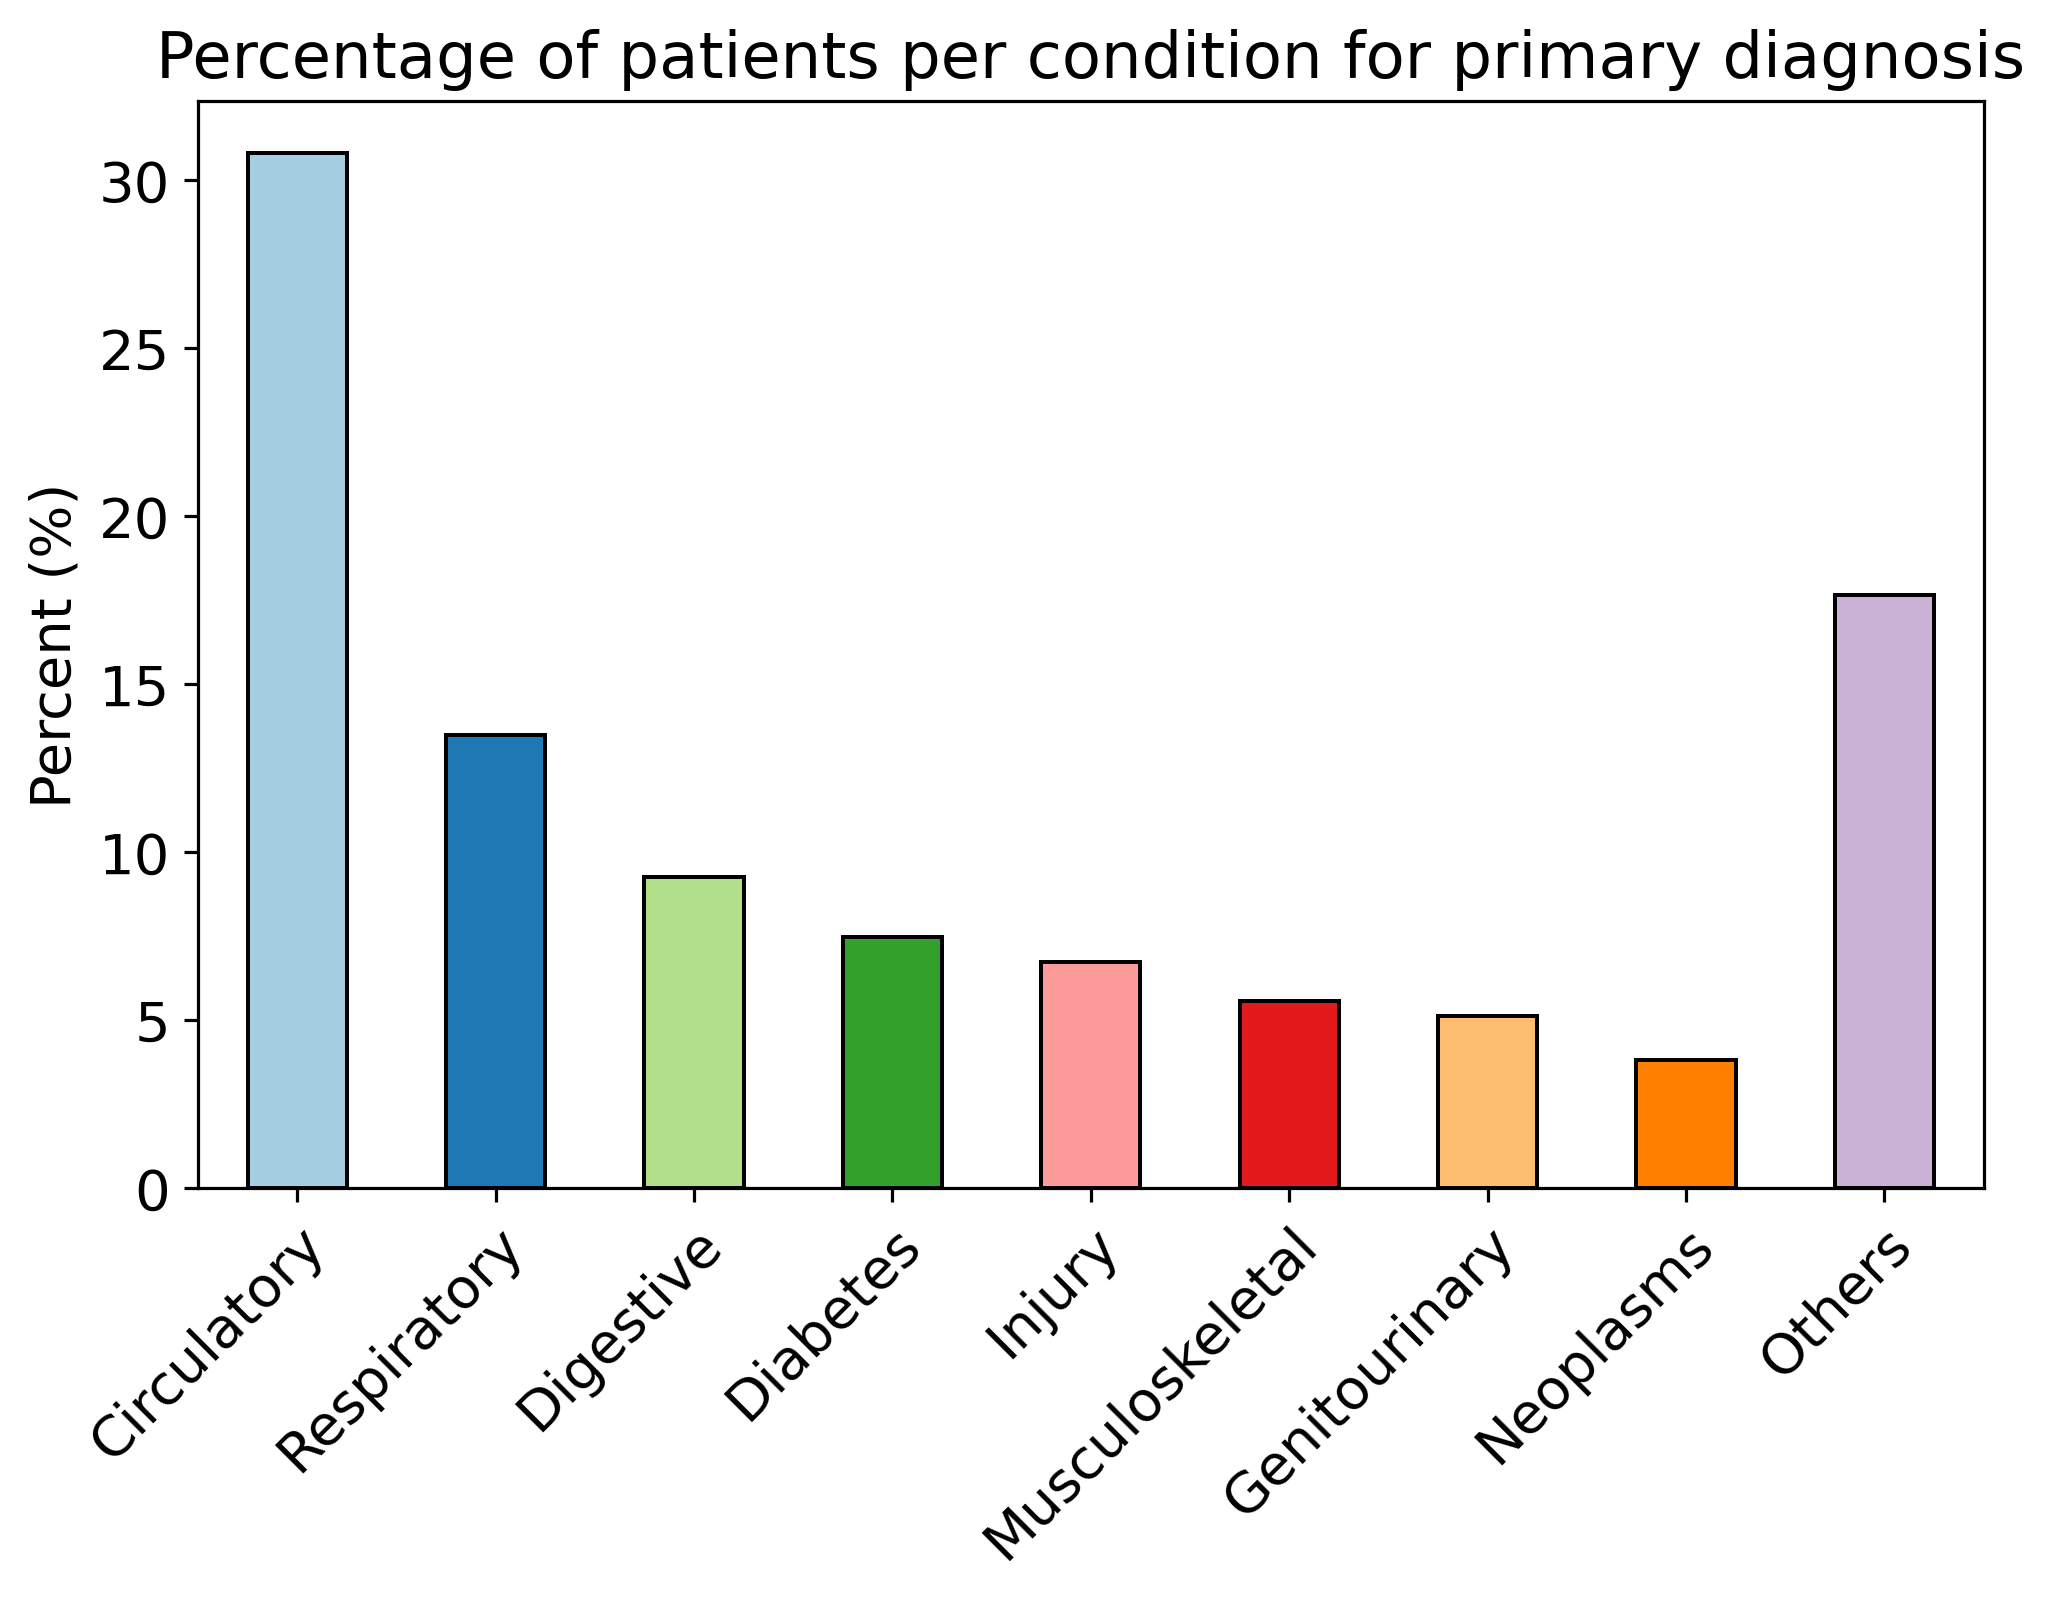
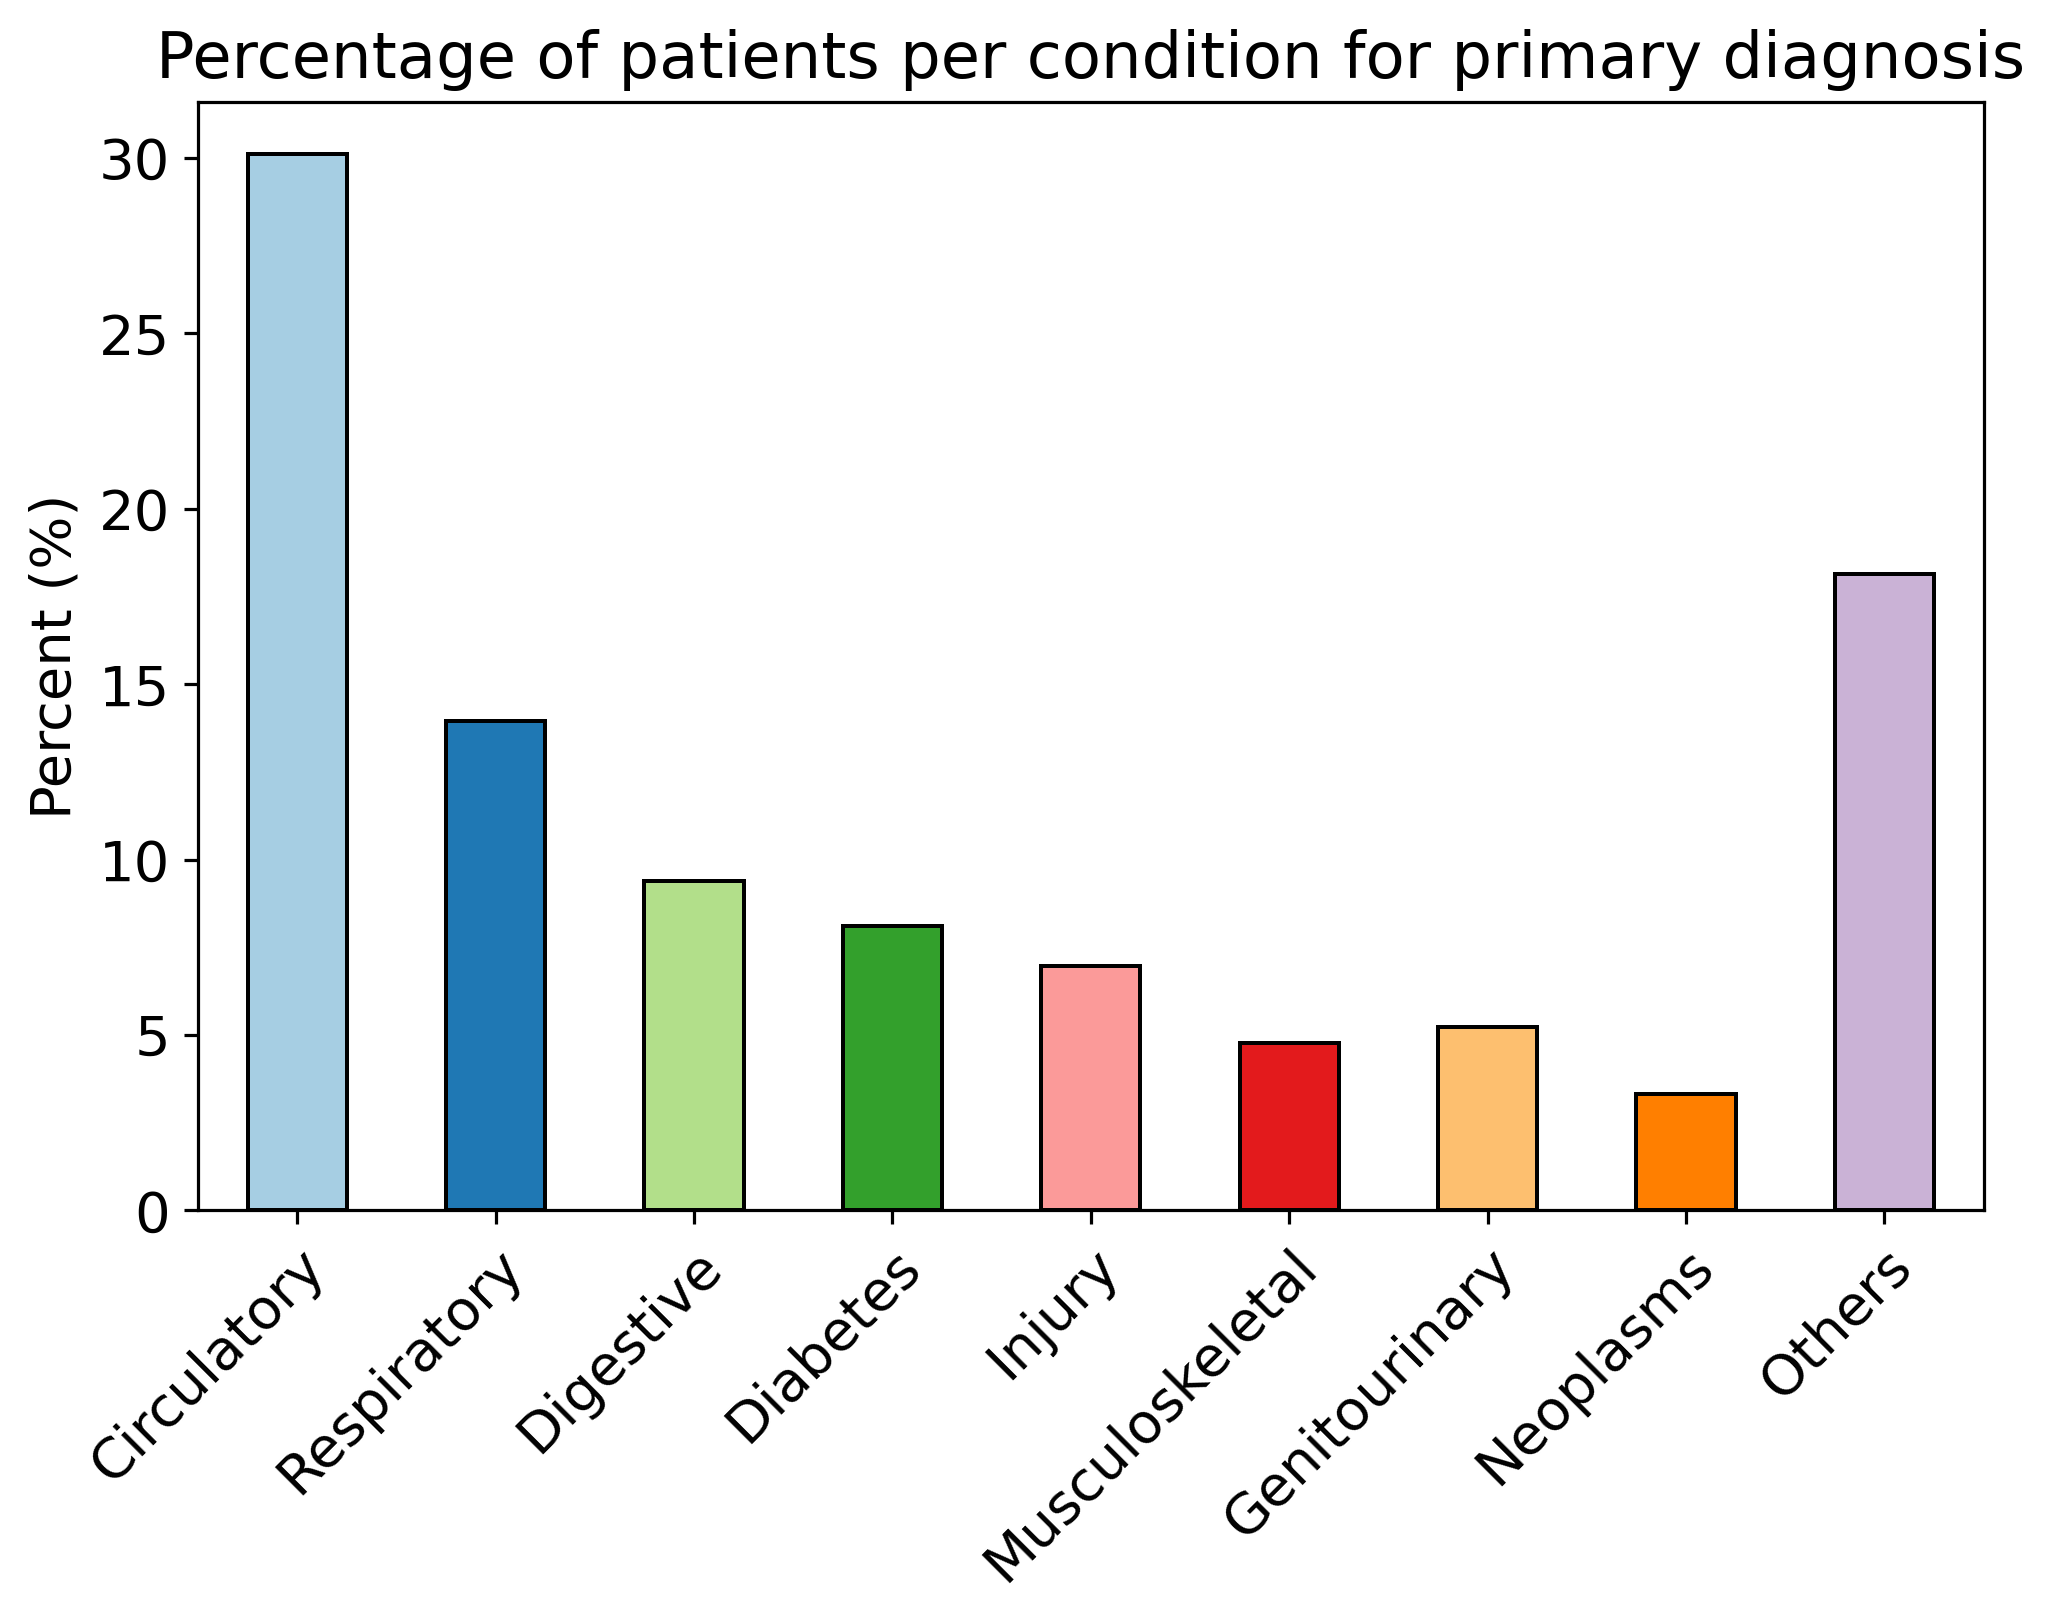
Percentage of patients per condition for primary diagnosis

diff --git a/exploratory_data_analysis/diagnosis.py b/exploratory_data_analysis/diagnosis.py
@@ -1,0 +1,84 @@
+#! /usr/bin/env python
+
+import pandas as pd
+import numpy as np
+import matplotlib.pyplot as plt
+import os
+from pathlib import Path
+
+home = os.environ['HOME']
+
+work_dir = Path(home) / 'Programming/Python/machine-learning-exercises/kaggle-notebooks/diabetes-in-130-US-hospitals/'
+data_file = work_dir / 'data/diabetic_data.csv'
+
+df = pd.read_csv(data_file, na_values='?', low_memory=False)
+obj_cols = df.select_dtypes('object').columns
+df[obj_cols] = df[obj_cols].astype('category')
+
+df = df.loc[df.race.notnull()]
+df = df.loc[df.gender != 'Unknown/Invalid', :]
+
+df.drop(['weight', 'medical_specialty', 'payer_code', 'encounter_id'], axis=1, inplace=True)
+
+df['admission_type_id'] = df['admission_type_id'].replace([5, 6, 8], np.nan)
+df['discharge_disposition_id'] = df['discharge_disposition_id'].replace([18, 25, 26], np.nan)
+df['admission_source_id'] = df['admission_source_id'].replace([9, 15, 17, 20, 21], np.nan)
+id_list = ['admission_type_id', 'discharge_disposition_id', 'admission_source_id']
+df[id_list] = df[id_list].astype('category')
+
+df = df[~df['discharge_disposition_id'].isin([11, 19, 20, 21])]
+
+df['service_use'] = df['number_outpatient'] + df['number_emergency'] + df['number_inpatient']
+df.drop(['number_outpatient', 'number_emergency', 'number_inpatient'], axis=1, inplace=True)
+
+df.dropna(how='any', inplace=True)
+
+circulatory_list = [str(f) for f in list(range(390, 460)) + [785]]
+respiratory_list = [str(f) for f in list(range(460, 520)) + [786]]
+digestive_list = [str(f) for f in list(range(520, 580)) + [787]]
+injury_list = [str(f) for f in list(range(800, 1000))]
+musculoskeletal_list = [str(f) for f in list(range(710, 740))]
+genitourinary_list = [str(f) for f in list(range(580, 630)) + [788]]
+neoplasms_list = [str(f) for f in list(range(140, 240))]
+
+diagnosis_list = [circulatory_list, respiratory_list, digestive_list, injury_list,
+                  musculoskeletal_list, genitourinary_list, neoplasms_list]
+diagnosis_names = ['Circulatory', 'Respiratory', 'Digestive', 'Injury',
+                   'Musculoskeletal', 'Genitourinary', 'Neoplasms']
+
+for diag_name, diag_list in zip(diagnosis_names, diagnosis_list):
+    df.loc[:, diag_name+'_col'] = np.array([np.nan for i in range(df.shape[0])])
+    filter_ = df['diag_1'].isin(diag_list)
+    df.loc[filter_, diag_name+'_col'] = np.array([diag_name for i in range(filter_.sum())])
+
+diab_others_list = ['Diabetes', 'Others', 'Others']
+char_list = ['250.', 'E', 'V']
+
+for diag_name, char in zip(diab_others_list, char_list):
+    df.loc[:, diag_name+'_col'] = np.array([np.nan for _ in range(df.shape[0])])
+    filter_ = df['diag_1'].str.contains(char)
+    df.loc[filter_, diag_name+'_col'] = np.array([diag_name for i in range(filter_.sum())])
+
+tmp_diag_list = [col+'_col' for col in diagnosis_names + ['Diabetes', 'Others']]
+df['primary_diag'] = df[tmp_diag_list].fillna(axis=1, method='bfill').iloc[:, 0]
+df['primary_diag'].fillna(value='Others', inplace=True)
+df['primary_diag'] = df['primary_diag'].astype('category')
+df.drop(tmp_diag_list, axis=1, inplace=True)
+
+diagnosis_df = df['primary_diag'].value_counts(dropna=False)
+diagnosis_df.sort_values(ascending=False, inplace=True)
+diagnosis_df = (diagnosis_df/diagnosis_df.sum()*100).apply('{:.2f}'.format).astype('float')
+diagnosis_df = diagnosis_df.reset_index().rename(columns={'index': 'Primary diagnosis', 'primary_diag': 'Percentage'})
+
+order_list = ['Circulatory', 'Respiratory', 'Digestive', 'Diabetes', 'Injury',
+              'Musculoskeletal', 'Genitourinary', 'Neoplasms', 'Others']
+diagnosis_df = diagnosis_df.set_index('Primary diagnosis').loc[order_list]
+diagnosis_sr = pd.Series(diagnosis_df.Percentage, index=diagnosis_df.index)
+
+ax = diagnosis_sr.plot(kind='bar', color=plt.cm.Paired.colors, figsize=(8, 5), edgecolor='k')
+plt.setp(ax.get_xticklabels(), ha="right", rotation_mode="anchor", rotation=45, fontsize=14)
+plt.setp(ax.get_yticklabels(), fontsize=14)
+ax.set_xlabel(None)
+ax.set_ylabel('Percent (%)', fontsize=14)
+ax.set_title('Percentage of patients per condition for primary diagnosis', fontsize=16)
+plt.savefig('plots/diagnosis.png', dpi=288, bbox_inches='tight')
